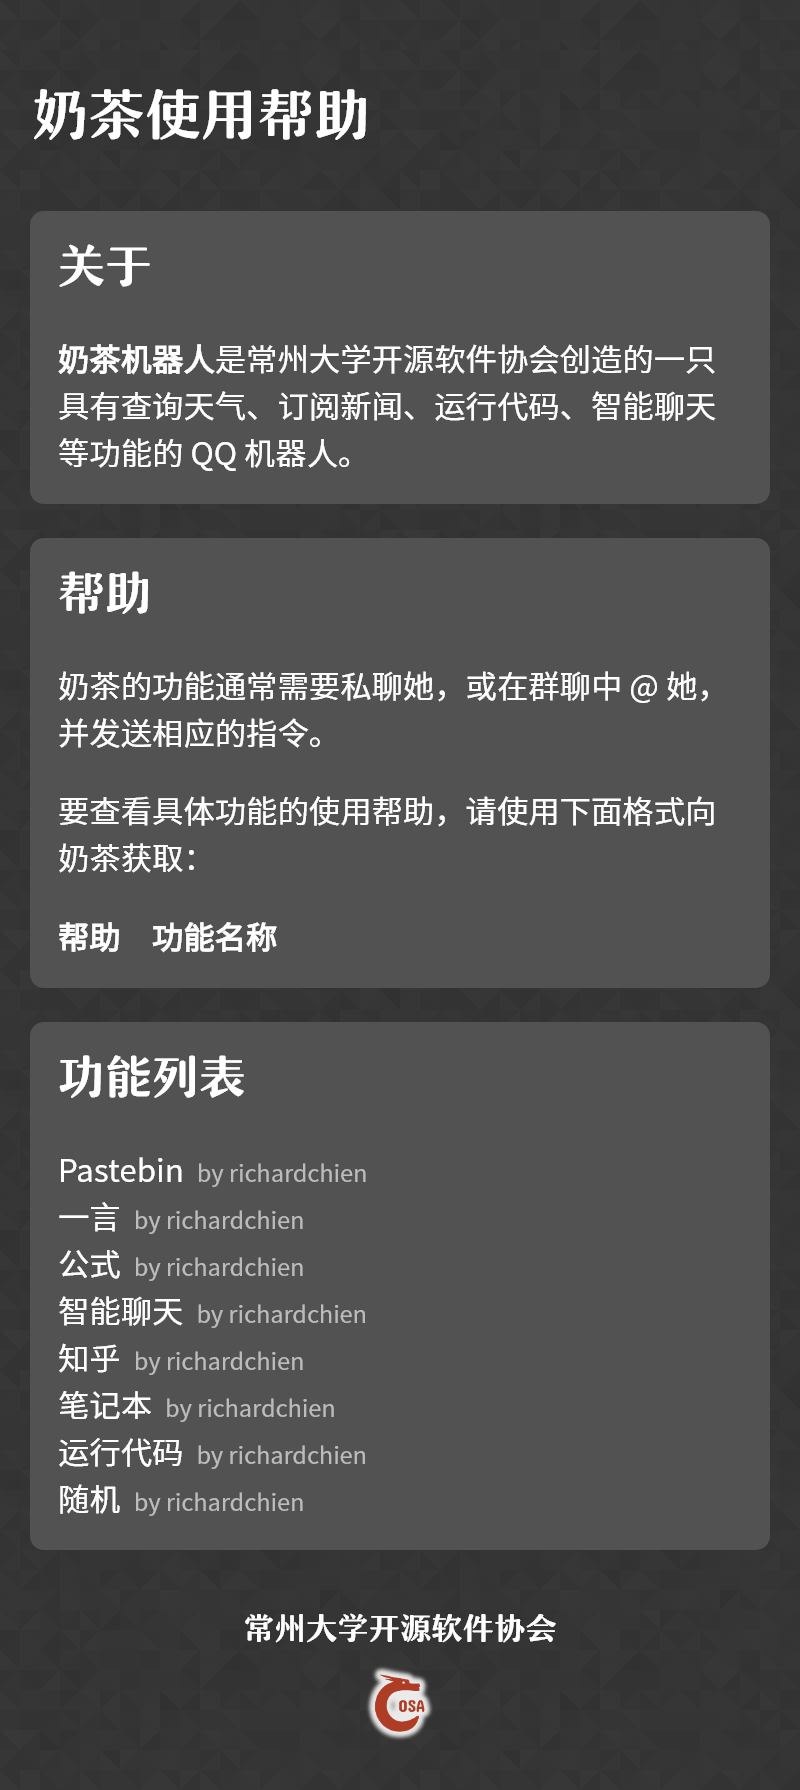
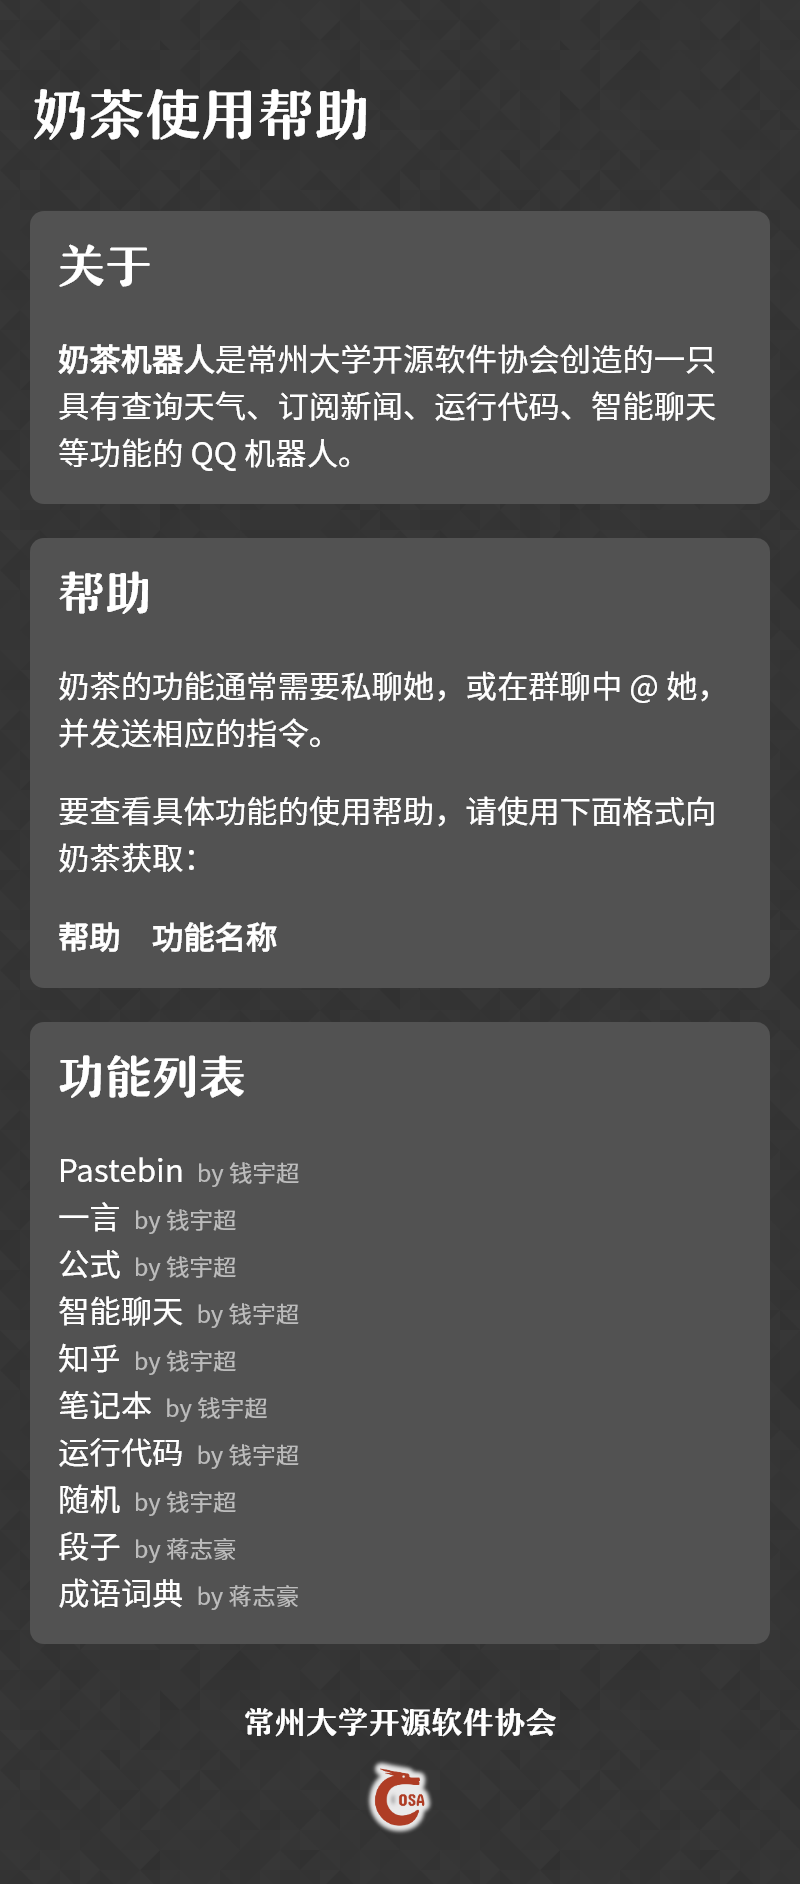
更新使用帮助

Changed region(s): [[0.0312, 0.0307, 0.9688, 0.9832]]

diff --git a/manual/成语词典.html b/manual/成语词典.html
@@ -1,0 +1,95 @@
+<h1>成语词典</h1>
+
+<section>
+  <h2>说明</h2>
+  <p>
+    本功能用于查询成语的解释、典故、同义词、反义词等。
+  </p>
+</section>
+
+<section>
+  <h2>示例</h2>
+  <div class="bubble-wrapper right">
+    <div class="bubble">
+      <p>
+        查成语 魑魅魍魉
+      </p>
+    </div>
+  </div>
+  <div class="bubble-wrapper left">
+    <div class="bubble">
+      <p>
+        魑魅魍魉<br>
+        <br>
+        成语解释：<br>
+        原为古代传说中的鬼怪。指各种各样的坏人。<br>
+        <br>
+        出处（典故）：<br>
+        《左传·宣公三年》：“魑魅魍魉，莫能逢之。”<br>
+        <br>
+        同义成语：<br>
+        牛鬼蛇神<br>
+        为鬼为蜮<br>
+        <br>
+        反义成语：<br>
+        志士仁人<br>
+        <br>
+        数据来源：聚合数据成语词典
+      </p>
+    </div>
+  </div>
+  <div class="bubble-wrapper right">
+    <div class="bubble">
+      <p>
+        帮我查一下高屋建瓴这个成语
+      </p>
+    </div>
+  </div>
+  <div class="bubble-wrapper left">
+    <div class="bubble">
+      <p>
+        高屋建瓴<br>
+        <br>
+        成语解释：<br>
+        建：倒水，泼水；瓴：盛水的瓶子。把瓶子里的水从高层顶上倾倒。比喻居高临下，不可阻遏。<br>
+        <br>
+        出处（典故）：<br>
+        《史记·高祖本纪》：“地势便利，其以下兵于诸侯，譬犹居高屋之上建瓴水也。”<br>
+        <br>
+        同义成语：<br>
+        高高在上<br>
+        居高临下<br>
+        <br>
+        反义成语：<br>
+        无<br>
+        <br>
+        数据来源：聚合数据成语词典
+      </p>
+    </div>
+  </div>
+</section>
+
+<section class="bg-color-1">
+  <h2>格式</h2>
+  <p>
+    查成语　[要查询的成语]
+  </p>
+  <p>PS: 中括号部分不填则默认交互式地询问</p>
+</section>
+
+<section class="bg-color-2">
+  <h2>命令别名</h2>
+  <p>
+    idiom, 查成语, 成语, 成语词典
+  </p>
+</section>
+
+<section class="bg-color-3">
+  <h2>触发机制</h2>
+  <p>
+    除了通过上述格式触发，还可以通过关键词「成语」触发，见示例的第二个对话。
+  </p>
+</section>
+
+<link rel="stylesheet" href="css/style.css">
+<script src="js/genpage.js"></script>

diff --git a/manual/段子.html b/manual/段子.html
@@ -1,0 +1,50 @@
+<h1>段子</h1>
+
+<section>
+  <h2>说明</h2>
+  <p>
+    本功能用于讲段子。
+  </p>
+</section>
+
+<section>
+  <h2>示例</h2>
+  <div class="bubble-wrapper right">
+    <div class="bubble">
+      <p>
+        笑话
+      </p>
+    </div>
+  </div>
+  <div class="bubble-wrapper left">
+    <div class="bubble">
+      <p>
+        孩子快要出生了，老公说： “咱要是生个儿子取名巅峰，寓意走上人生巅峰。”　　老婆：“巅峰个头，你TM姓杨啊。”
+      </p>
+    </div>
+  </div>
+  <div class="bubble-wrapper right">
+    <div class="bubble">
+      <p>
+        说个段子
+      </p>
+    </div>
+  </div>
+  <div class="bubble-wrapper left">
+    <div class="bubble">
+      <p>
+        早上有个警官打电话给我,说我老婆因剽窃公司文件给抓了。简直是家门不幸啊,我李家世代清白怎么就出了这么个不成器的。我连忙表示多少钱都不是问题,但我一定要见见我那个素未谋面的老婆。
+      </p>
+    </div>
+  </div>
+</section>
+
+<section class="bg-color-3">
+  <h2>触发机制</h2>
+  <p>
+    通过关键词「笑话」和「段子」可以触发本功能。
+  </p>
+</section>
+
+<link rel="stylesheet" href="css/style.css">
+<script src="js/genpage.js"></script>

diff --git a/manual/index.html b/manual/index.html
@@ -21,14 +21,16 @@
 <section>
   <h2>功能列表</h2>
   <p>
-    Pastebin <span class="author">by richardchien</span><br>
-    一言 <span class="author">by richardchien</span><br>
-    公式 <span class="author">by richardchien</span><br>
-    智能聊天 <span class="author">by richardchien</span><br>
-    知乎 <span class="author">by richardchien</span><br>
-    笔记本 <span class="author">by richardchien</span><br>
-    运行代码 <span class="author">by richardchien</span><br>
-    随机 <span class="author">by richardchien</span><br>
+    Pastebin <span class="author">by 钱宇超</span><br>
+    一言 <span class="author">by 钱宇超</span><br>
+    公式 <span class="author">by 钱宇超</span><br>
+    智能聊天 <span class="author">by 钱宇超</span><br>
+    知乎 <span class="author">by 钱宇超</span><br>
+    笔记本 <span class="author">by 钱宇超</span><br>
+    运行代码 <span class="author">by 钱宇超</span><br>
+    随机 <span class="author">by 钱宇超</span><br>
+    段子 <span class="author">by 蒋志豪</span><br>
+    成语词典 <span class="author">by 蒋志豪</span><br>
   </p>
 </section>
 
